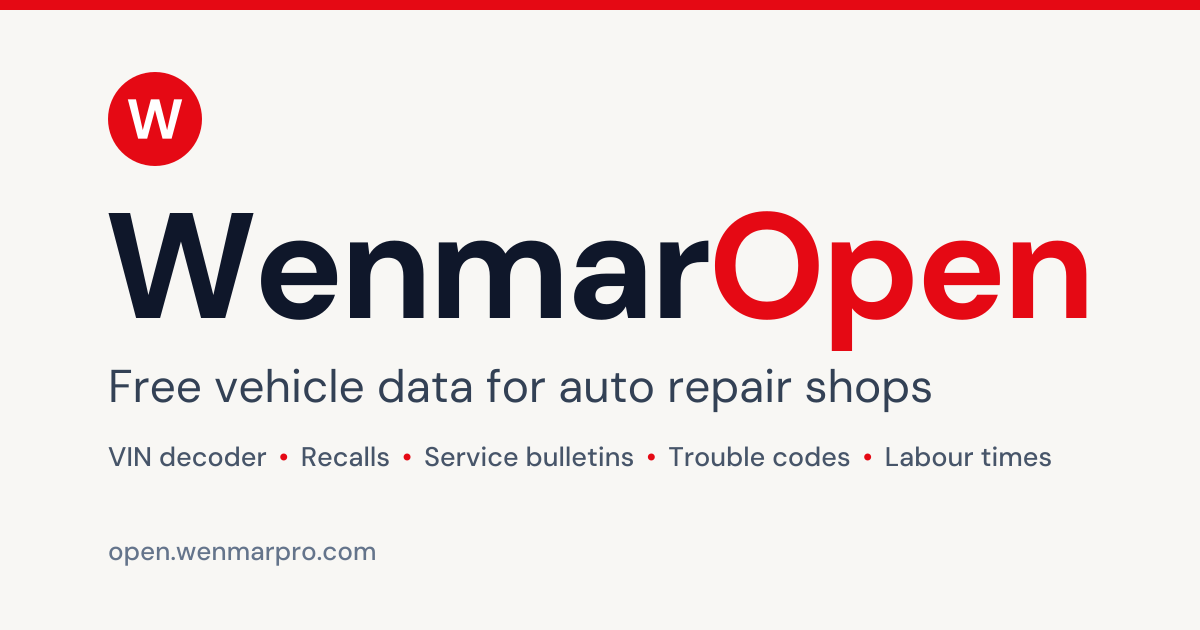
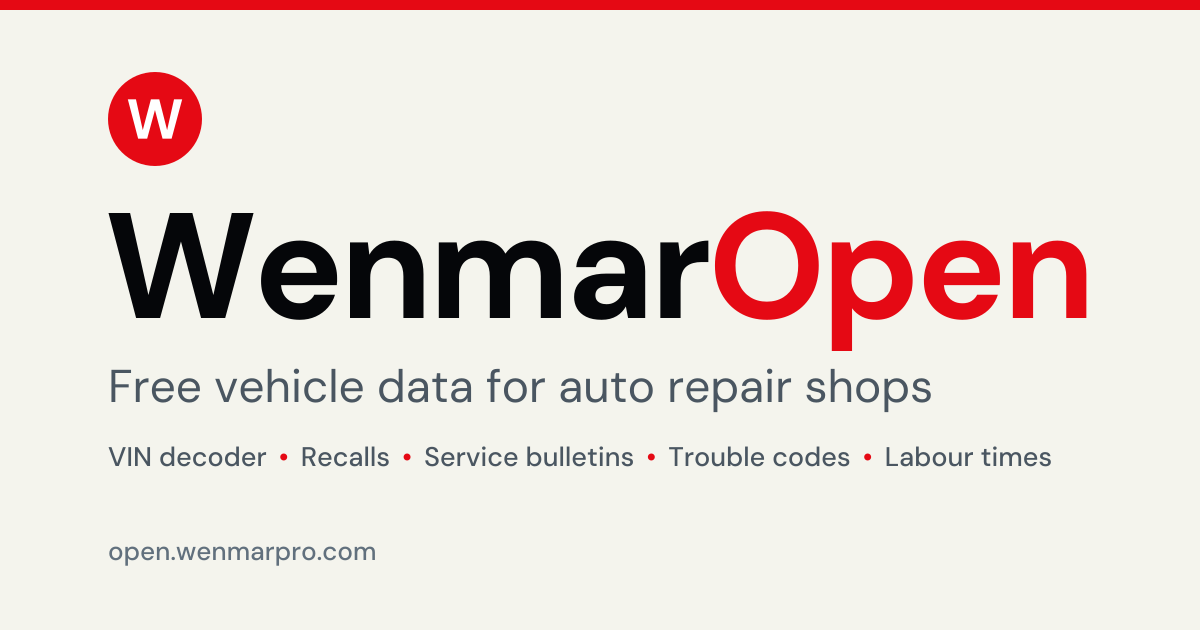
Move the site to the shared web palette and show the W mark in the header
Buttons and focus outlines use the softer scarlet, the logo red stays
#E50914, and the social card and address-bar colours match.

Changed region(s): [[0.0925, 0.3317, 0.6167, 0.5127]]

diff --git a/crates/open-server/assets/site.css b/crates/open-server/assets/site.css
@@ -11,7 +11,7 @@ html{-webkit-text-size-adjust:100%}
 body{margin:0;padding:0 8px 24px;background:var(--page);color:var(--body);font:var(--text)/1.6 var(--sans);overflow-wrap:anywhere;-webkit-font-smoothing:antialiased}
 a{color:inherit;text-decoration-thickness:1px;text-underline-offset:3px}
 a:hover{text-decoration-thickness:2px}
-a:focus-visible,button:focus-visible,input:focus-visible,select:focus-visible{outline:2px solid var(--brand);outline-offset:2px}
+a:focus-visible,button:focus-visible,input:focus-visible,select:focus-visible{outline:2px solid var(--accent);outline-offset:2px}
 h1,h2{color:var(--heading);font-weight:var(--semibold);letter-spacing:-.02em;line-height:1.25;margin:0 0 12px}
 h1{font-size:var(--title)}
 h2{font-size:var(--section);margin-top:32px}
@@ -24,6 +24,7 @@ pre{background:var(--inset);border-radius:6px;padding:12px;font-size:var(--small
 .top{display:flex;flex-wrap:wrap;align-items:center;gap:0 16px}
 .name{font-size:var(--wordmark);font-weight:700;letter-spacing:-.025em;text-decoration:none;color:var(--heading)}
 .name span{color:var(--brand)}
+.name .mark{margin-right:8px;flex:none}
 .by{font-size:var(--small);color:var(--secondary)}
 .top nav{margin-left:auto;display:flex;flex-wrap:wrap;gap:0 16px}
 .top nav a{color:var(--secondary);text-decoration:none}
@@ -39,8 +40,8 @@ input,select{width:100%;background:var(--surface);border:1px solid var(--control
 input[type=text]{font-family:var(--mono);letter-spacing:.06em;text-transform:uppercase}
 button{cursor:pointer;font-weight:var(--medium);background:var(--inset);border:1px solid var(--border-strong)}
 button:hover{border-color:var(--control)}
-button.primary{background:var(--brand);border-color:var(--brand);color:#fff}
-button.primary:hover{background:var(--brand-hover);border-color:var(--brand-hover)}
+button.primary{background:var(--accent);border-color:var(--accent);color:#fff}
+button.primary:hover{background:var(--accent-hover);border-color:var(--accent-hover)}
 form{display:grid;gap:8px;margin-bottom:8px}
 form.vin input{min-height:56px;font-size:clamp(18px,5.6vw,24px)}
 form.vin button{min-height:56px;font-size:var(--section)}
@@ -83,4 +84,4 @@ ul.plain a[aria-current]{color:var(--heading);font-weight:var(--semibold)}
 @media (prefers-reduced-motion:no-preference){a,button,input,select{transition:color 75ms,background-color 75ms,border-color 75ms}}
 @media (max-width:599px){.top nav{flex-basis:100%;margin-left:0;justify-content:space-between;gap:0 6px;font-size:var(--small)}}
 @media (min-width:600px){main{padding:32px}form.vin{grid-template-columns:1fr auto;align-items:end}form.vin label,form.vin .help{grid-column:1/-1}form.pick{grid-template-columns:1fr 2fr auto;align-items:end}form.pick label{grid-row:1}form.pick select,form.pick button{grid-row:2}}
-@media print{:root{color-scheme:light;--page:#fff;--surface:#fff;--inset:#fff;--border:#bbb;--border-strong:#888;--control:#666;--heading:#000;--body:#000;--secondary:#333;--warn-text:#000;--warn-bg:#fff;--brand:#000}body{padding:0}.skip,.by,.top nav,.crumbs,.actions,form:not(.calc),.screen,.pro,.more{display:none!important}.top,footer{padding-left:0;padding-right:0}main{border:0;box-shadow:none;padding:0}th,td{padding:4px 8px 4px 0}table{break-inside:avoid}a{text-decoration:none}}
+@media print{:root{color-scheme:light;--page:#fff;--surface:#fff;--inset:#fff;--border:#bbb;--border-strong:#888;--control:#666;--heading:#000;--body:#000;--secondary:#333;--warn-text:#000;--warn-bg:#fff;--brand:#000;--accent:#000}body{padding:0}.skip,.by,.top nav,.crumbs,.actions,form:not(.calc),.screen,.pro,.more{display:none!important}.top,footer{padding-left:0;padding-right:0}main{border:0;box-shadow:none;padding:0}th,td{padding:4px 8px 4px 0}table{break-inside:avoid}a{text-decoration:none}}

diff --git a/crates/open-server/templates/base.html b/crates/open-server/templates/base.html
@@ -29,8 +29,8 @@
 <meta property="og:image:height" content="630">
 <meta property="og:image:alt" content="Wenmar Open: free vehicle data for auto repair shops">
 <meta name="twitter:card" content="summary_large_image">
-<meta name="theme-color" media="(prefers-color-scheme: light)" content="#f8f7f4">
-<meta name="theme-color" media="(prefers-color-scheme: dark)" content="#0e0e10">
+<meta name="theme-color" media="(prefers-color-scheme: light)" content="#f4f4ed">
+<meta name="theme-color" media="(prefers-color-scheme: dark)" content="#050609">
 <link rel="preload" href="/assets/fonts/dm-sans-latin-wght.woff2" as="font" type="font/woff2" crossorigin>
 {% if page.mono_first -%}
 <link rel="preload" href="/assets/fonts/jetbrains-mono-latin-400.woff2" as="font" type="font/woff2" crossorigin>
@@ -48,7 +48,7 @@
 <body>
 <a class="skip" href="#main">Skip to content</a>
 <header class="top">
-<a class="name" href="/" aria-label="Wenmar Open, home">Wenmar<span>Open</span></a>
+<a class="name" href="/" aria-label="Wenmar Open, home"><svg class="mark" aria-hidden="true" width="30" height="30" viewBox="96 96 320 320"><circle cx="256" cy="256" r="153" fill="#e50914"/><path fill="#fff" d="M201.142,320.064l-33.642,-128.128l26.452,0.0l22.274,100.168l26.421,-100.168l27.236,0.0l25.525,100.211l22.534,-100.211l26.558,0.0l-34.48,128.128l-29.484,0.0l-24.664,-93.319l-25.399,93.319l-29.329,0.0Z"/></svg>Wenmar<span>Open</span></a>
 <a class="by" href="{{ page.pro_header }}">by Wenmar Pro</a>
 <nav aria-label="Site">
 <a href="/makes"{% if page.section == "makes" %} aria-current="page"{% endif %}>Makes</a>

diff --git a/crates/open-server/src/site/tokens.rs b/crates/open-server/src/site/tokens.rs
@@ -1,14 +1,20 @@
 //! Brand colours and type.
 //!
-//! These are the values of Wenmar Pro's design tokens, copied on 2026-10-01.
-//! Wenmar Pro's own token crate is private and this repository is public, so
-//! the values are repeated here instead of depended on. When the brand
-//! changes, change them here.
+//! These are the Wenmar web palette, shared with wenmarpro.com, Wenmar Find and
+//! Wenmar Jobs (2026-11-03; Wenmar Pro's brand guide, "Web palette"): porcelain
+//! ground, white cards, scarlet for actions. Wenmar Pro's own token crate is
+//! private and this repository is public, so the values are repeated here
+//! instead of depended on. When the brand changes, change them here.
 
-/// The one brand colour. It marks the single most important action on a
-/// page and nothing else.
+/// The red of the logo mark and the wordmark's "Open", and nothing else. Large
+/// bold text: 3 to 1 is enough on every ground.
 pub const BRAND: &str = "#e50914";
-pub const BRAND_HOVER: &str = "#c20d12";
+/// Scarlet: the main action on a page, and the focus outline. White text on it
+/// passes AA.
+pub const ACCENT: &str = "#db222a";
+/// The accent under the pointer, in both schemes: darker, so white text on it
+/// still passes.
+pub const ACCENT_HOVER: &str = "#b81b22";
 
 /// A set of surface, border and text colours.
 pub struct Palette {
@@ -29,31 +35,31 @@ pub struct Palette {
 }
 
 pub const LIGHT: Palette = Palette {
-    page: "#f8f7f4",
+    page: "#f4f4ed",
     surface: "#ffffff",
-    inset: "#f1f5f9",
-    border: "#e2e8f0",
-    border_strong: "#cbd5e1",
-    control: "#64748b",
-    heading: "#0f172a",
-    body: "#0f172a",
-    secondary: "#334155",
-    warn_text: "#92400e",
-    warn_bg: "#fffbeb",
+    inset: "#eaeae1",
+    border: "#deded4",
+    border_strong: "#8b959e",
+    control: "#78828b",
+    heading: "#050609",
+    body: "#050609",
+    secondary: "#4a5661",
+    warn_text: "#8a4b00",
+    warn_bg: "#fdf1dc",
 };
 
 pub const DARK: Palette = Palette {
-    page: "#0e0e10",
-    surface: "#18181b",
-    inset: "#27272a",
-    border: "#27272a",
-    border_strong: "#3f3f46",
-    control: "#71717a",
-    heading: "#fafafa",
-    body: "#d4d4d8",
-    secondary: "#a1a1aa",
+    page: "#050609",
+    surface: "#101217",
+    inset: "#1c1f25",
+    border: "#262a31",
+    border_strong: "#4a525c",
+    control: "#5c636e",
+    heading: "#f4f4ed",
+    body: "#f4f4ed",
+    secondary: "#b4bdc6",
     warn_text: "#fbbf24",
-    warn_bg: "#451a03",
+    warn_bg: "#2a1c05",
 };
 
 /// The brand faces are served by this site (`assets/fonts/`). After each
@@ -103,7 +109,7 @@ fn palette(palette: &Palette) -> String {
 /// visitor's system asks for it.
 pub fn css() -> String {
     format!(
-        ":root{{color-scheme:light dark;--brand:{BRAND};--brand-hover:{BRAND_HOVER};--sans:{FONT_SANS};--mono:{FONT_MONO};--text:{TEXT_BODY}px;--small:{TEXT_SMALL}px;--section:{TEXT_SECTION}px;--title:{TEXT_TITLE}px;--wordmark:{TEXT_WORDMARK}px;--medium:{WEIGHT_MEDIUM};--semibold:{WEIGHT_SEMIBOLD};--radius:{RADIUS}px;--touch:{TOUCH}px;{}}}\n@media (prefers-color-scheme:dark){{:root{{{}}}}}\n",
+        ":root{{color-scheme:light dark;--brand:{BRAND};--accent:{ACCENT};--accent-hover:{ACCENT_HOVER};--sans:{FONT_SANS};--mono:{FONT_MONO};--text:{TEXT_BODY}px;--small:{TEXT_SMALL}px;--section:{TEXT_SECTION}px;--title:{TEXT_TITLE}px;--wordmark:{TEXT_WORDMARK}px;--medium:{WEIGHT_MEDIUM};--semibold:{WEIGHT_SEMIBOLD};--radius:{RADIUS}px;--touch:{TOUCH}px;{}}}\n@media (prefers-color-scheme:dark){{:root{{{}}}}}\n",
         palette(&LIGHT),
         palette(&DARK)
     )
@@ -117,9 +123,10 @@ mod tests {
     fn the_css_carries_the_brand_values() {
         let css = css();
         assert!(css.contains("--brand:#e50914;"), "{css}");
-        assert!(css.contains("--page:#f8f7f4;"), "{css}");
+        assert!(css.contains("--accent:#db222a;"), "{css}");
+        assert!(css.contains("--page:#f4f4ed;"), "{css}");
         assert!(
-            css.contains("@media (prefers-color-scheme:dark){:root{--page:#0e0e10;"),
+            css.contains("@media (prefers-color-scheme:dark){:root{--page:#050609;"),
             "{css}"
         );
         assert!(
@@ -127,8 +134,8 @@ mod tests {
             "{css}"
         );
         assert!(css.contains("--touch:44px;"), "{css}");
-        assert!(css.contains("--control:#64748b;"), "{css}");
-        assert!(css.contains("--control:#71717a;"), "{css}");
+        assert!(css.contains("--control:#78828b;"), "{css}");
+        assert!(css.contains("--control:#5c636e;"), "{css}");
         assert!(css.contains("--wordmark:20px;"), "{css}");
     }
 
@@ -168,9 +175,17 @@ mod tests {
                 );
             }
         }
-        // White text on the brand button.
-        assert!(contrast("#ffffff", BRAND) >= 4.5);
-        assert!(contrast("#ffffff", BRAND_HOVER) >= 4.5);
+        // White text on the main button, and the focus outline on every ground.
+        assert!(contrast("#ffffff", ACCENT) >= 4.5);
+        assert!(contrast("#ffffff", ACCENT_HOVER) >= 4.5);
+        for palette in [&LIGHT, &DARK] {
+            for ground in [palette.page, palette.surface] {
+                assert!(
+                    contrast(ACCENT, ground) >= 3.0,
+                    "the focus outline on {ground}"
+                );
+            }
+        }
     }
 
     #[test]

diff --git a/crates/open-server/tests/it/site_design.rs b/crates/open-server/tests/it/site_design.rs
@@ -63,10 +63,10 @@ async fn every_page_has_the_wordmark_and_what_a_shared_link_needs() {
         assert_basics(&html, path);
         // The address bar takes the page's colour in each scheme.
         assert!(html.contains(
-            r##"<meta name="theme-color" media="(prefers-color-scheme: light)" content="#f8f7f4">"##
+            r##"<meta name="theme-color" media="(prefers-color-scheme: light)" content="#f4f4ed">"##
         ));
         assert!(html.contains(
-            r##"<meta name="theme-color" media="(prefers-color-scheme: dark)" content="#0e0e10">"##
+            r##"<meta name="theme-color" media="(prefers-color-scheme: dark)" content="#050609">"##
         ));
     }
     // The fixed-width face is asked for early only where it is on the first
@@ -91,29 +91,42 @@ async fn every_page_has_the_wordmark_and_what_a_shared_link_needs() {
 #[tokio::test]
 async fn the_brand_red_marks_the_wordmark_and_one_action() {
     let css = stylesheet().await;
-    // The colour itself is written once, as a token.
-    assert_eq!(css.matches("#e50914").count(), 1, "the red is a token");
-    // It is used by the wordmark, the primary button and the focus outline,
-    // and by nothing else.
-    let allowed = [
-        ".name span{",
-        "button.primary{",
-        "button.primary:hover{",
-        "a:focus-visible,button:focus-visible,input:focus-visible,select:focus-visible{",
-    ];
-    let mut uses = 0;
-    for rule in css.split('}') {
-        if !rule.contains("var(--brand") {
-            continue;
+    // Each red is written once, as a token.
+    assert_eq!(
+        css.matches("#e50914").count(),
+        1,
+        "the brand red is a token"
+    );
+    assert_eq!(css.matches("#db222a").count(), 1, "the scarlet is a token");
+    // The brand red is the wordmark's alone; the scarlet is the primary
+    // button's and the focus outline's, and nothing else's.
+    let count = |token: &str, allowed: &[&str]| {
+        let mut uses = 0;
+        for rule in css.split('}') {
+            if !rule.contains(token) {
+                continue;
+            }
+            uses += 1;
+            let rule = rule.trim_start();
+            assert!(
+                allowed.iter().any(|selector| rule.starts_with(selector)),
+                "{token} used by: {rule}"
+            );
         }
-        uses += 1;
-        let rule = rule.trim_start();
-        assert!(
-            allowed.iter().any(|selector| rule.starts_with(selector)),
-            "red used by: {rule}"
-        );
-    }
-    assert_eq!(uses, 4);
+        uses
+    };
+    assert_eq!(count("var(--brand", &[".name span{"]), 1);
+    assert_eq!(
+        count(
+            "var(--accent",
+            &[
+                "button.primary{",
+                "button.primary:hover{",
+                "a:focus-visible,button:focus-visible,input:focus-visible,select:focus-visible{",
+            ]
+        ),
+        3
+    );
 
     let app = common::app().await;
     let (_, home) = page(&app, "/").await;

diff --git a/crates/open-server/tests/it/common.rs b/crates/open-server/tests/it/common.rs
@@ -1120,9 +1120,9 @@ pub fn json_alternate(html: &str) -> Option<String> {
 pub fn assert_head(html: &str, path: &str) {
     assert!(
         html.contains(
-            r#"<a class="name" href="/" aria-label="Wenmar Open, home">Wenmar<span>Open</span></a>"#
-        ),
-        "{path}: the wordmark"
+            r#"<a class="name" href="/" aria-label="Wenmar Open, home"><svg class="mark""#
+        ) && html.contains(r#"</svg>Wenmar<span>Open</span></a>"#),
+        "{path}: the logo mark and the wordmark"
     );
     let title = html
         .split("<title>")
